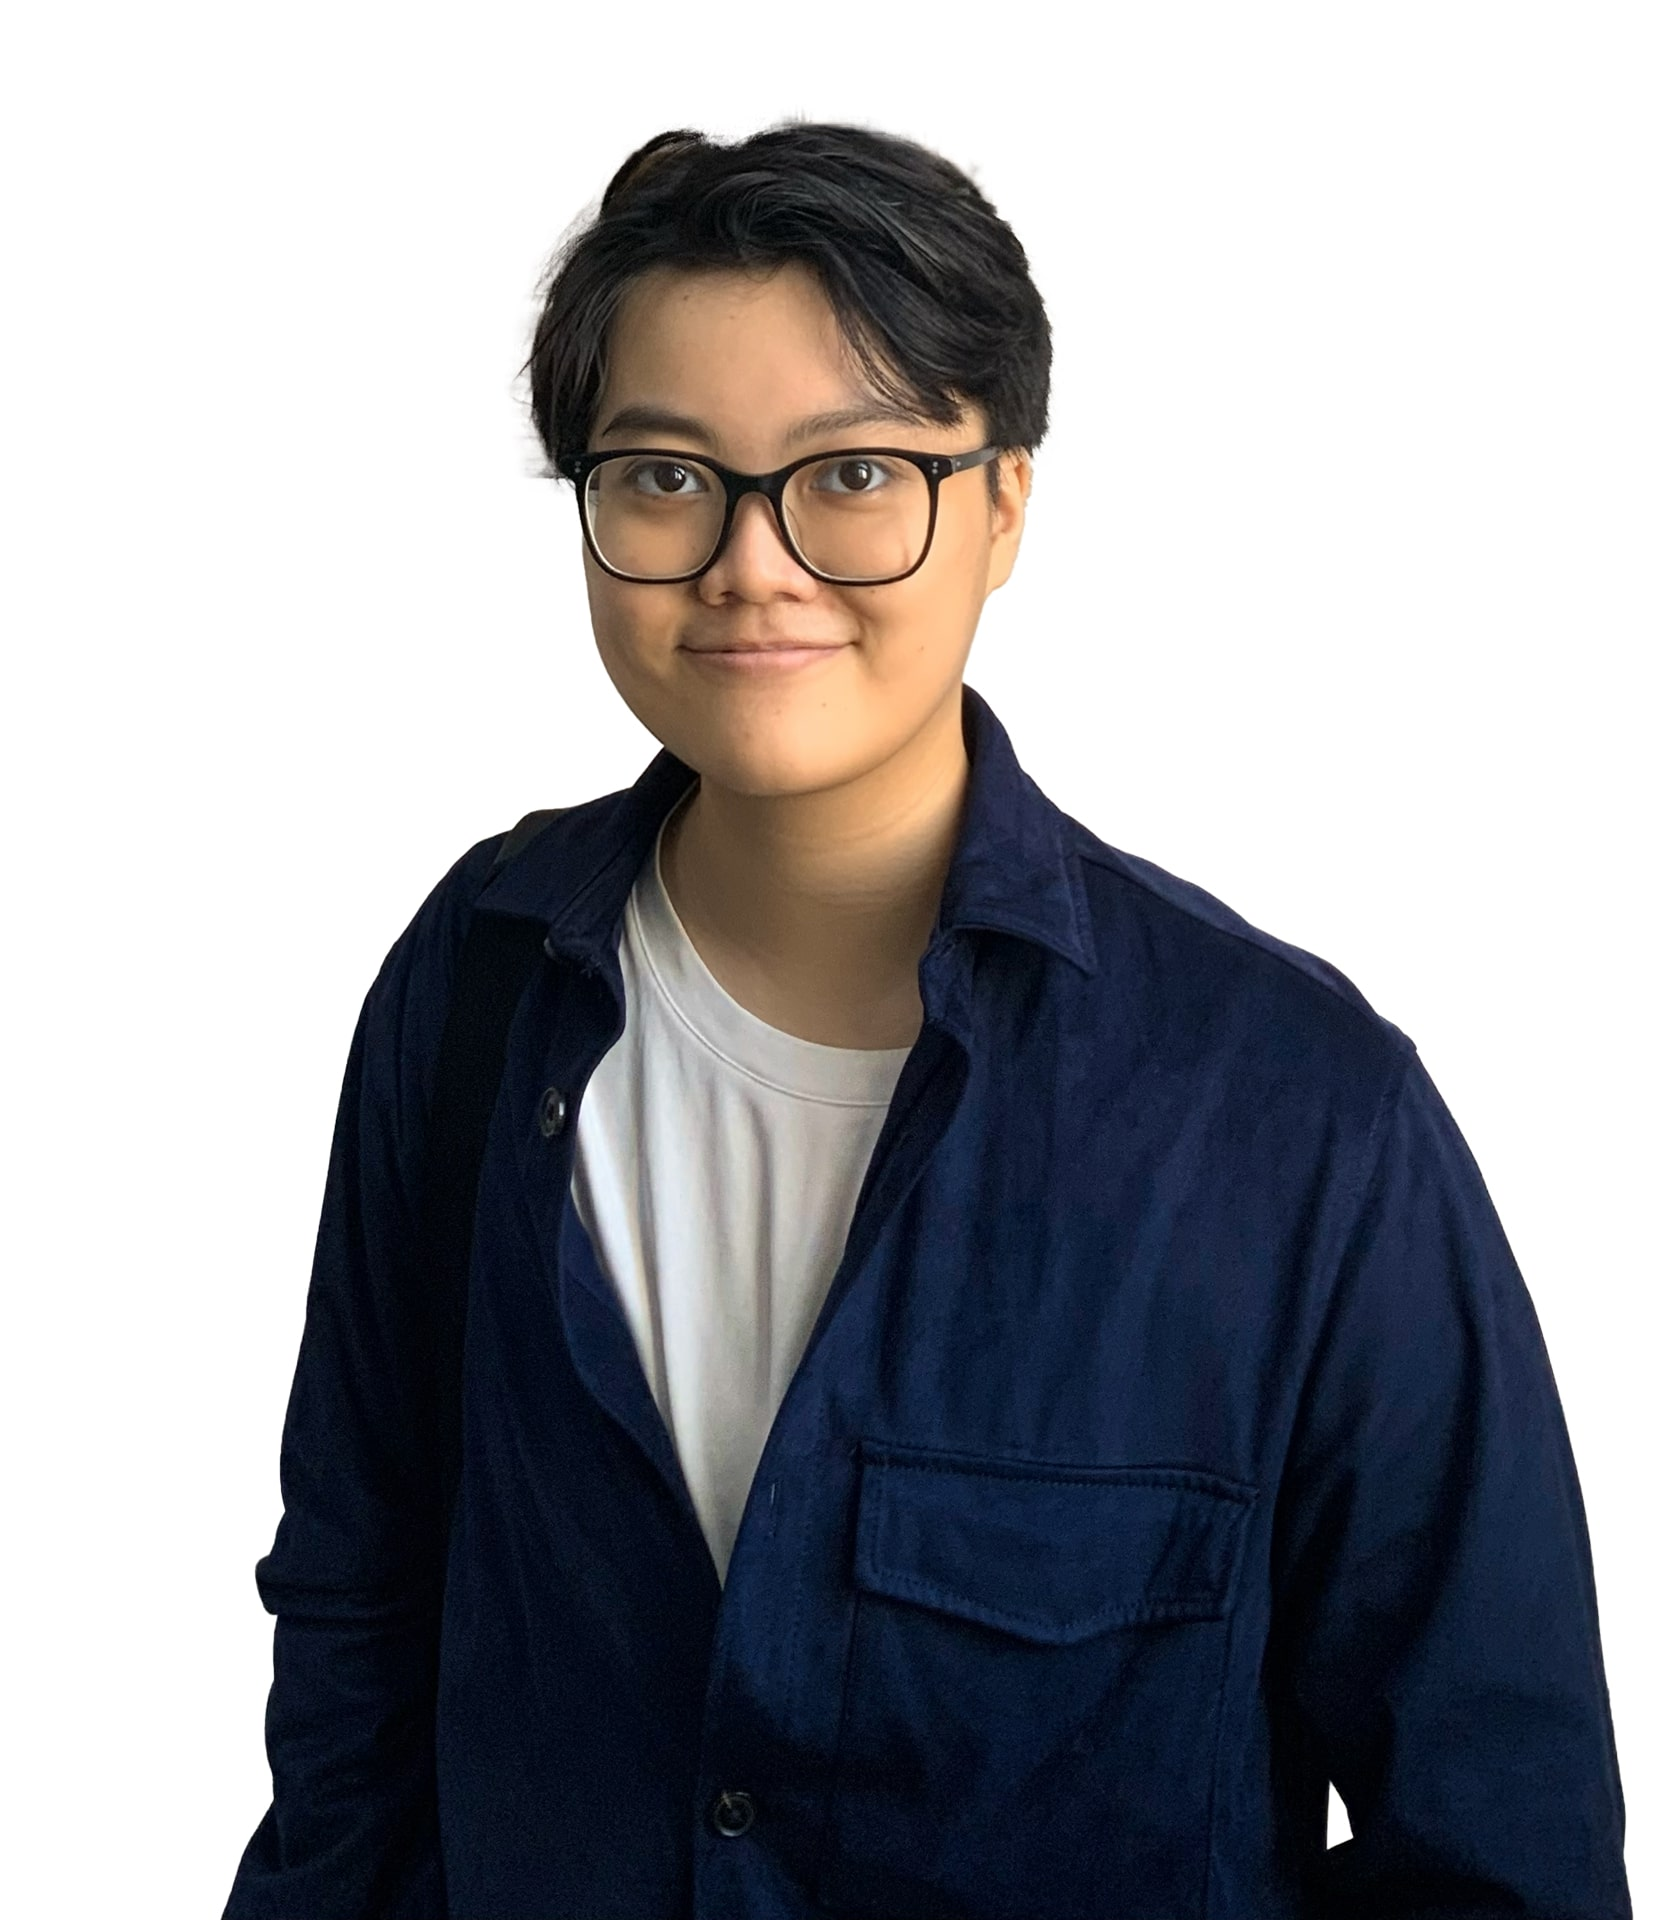
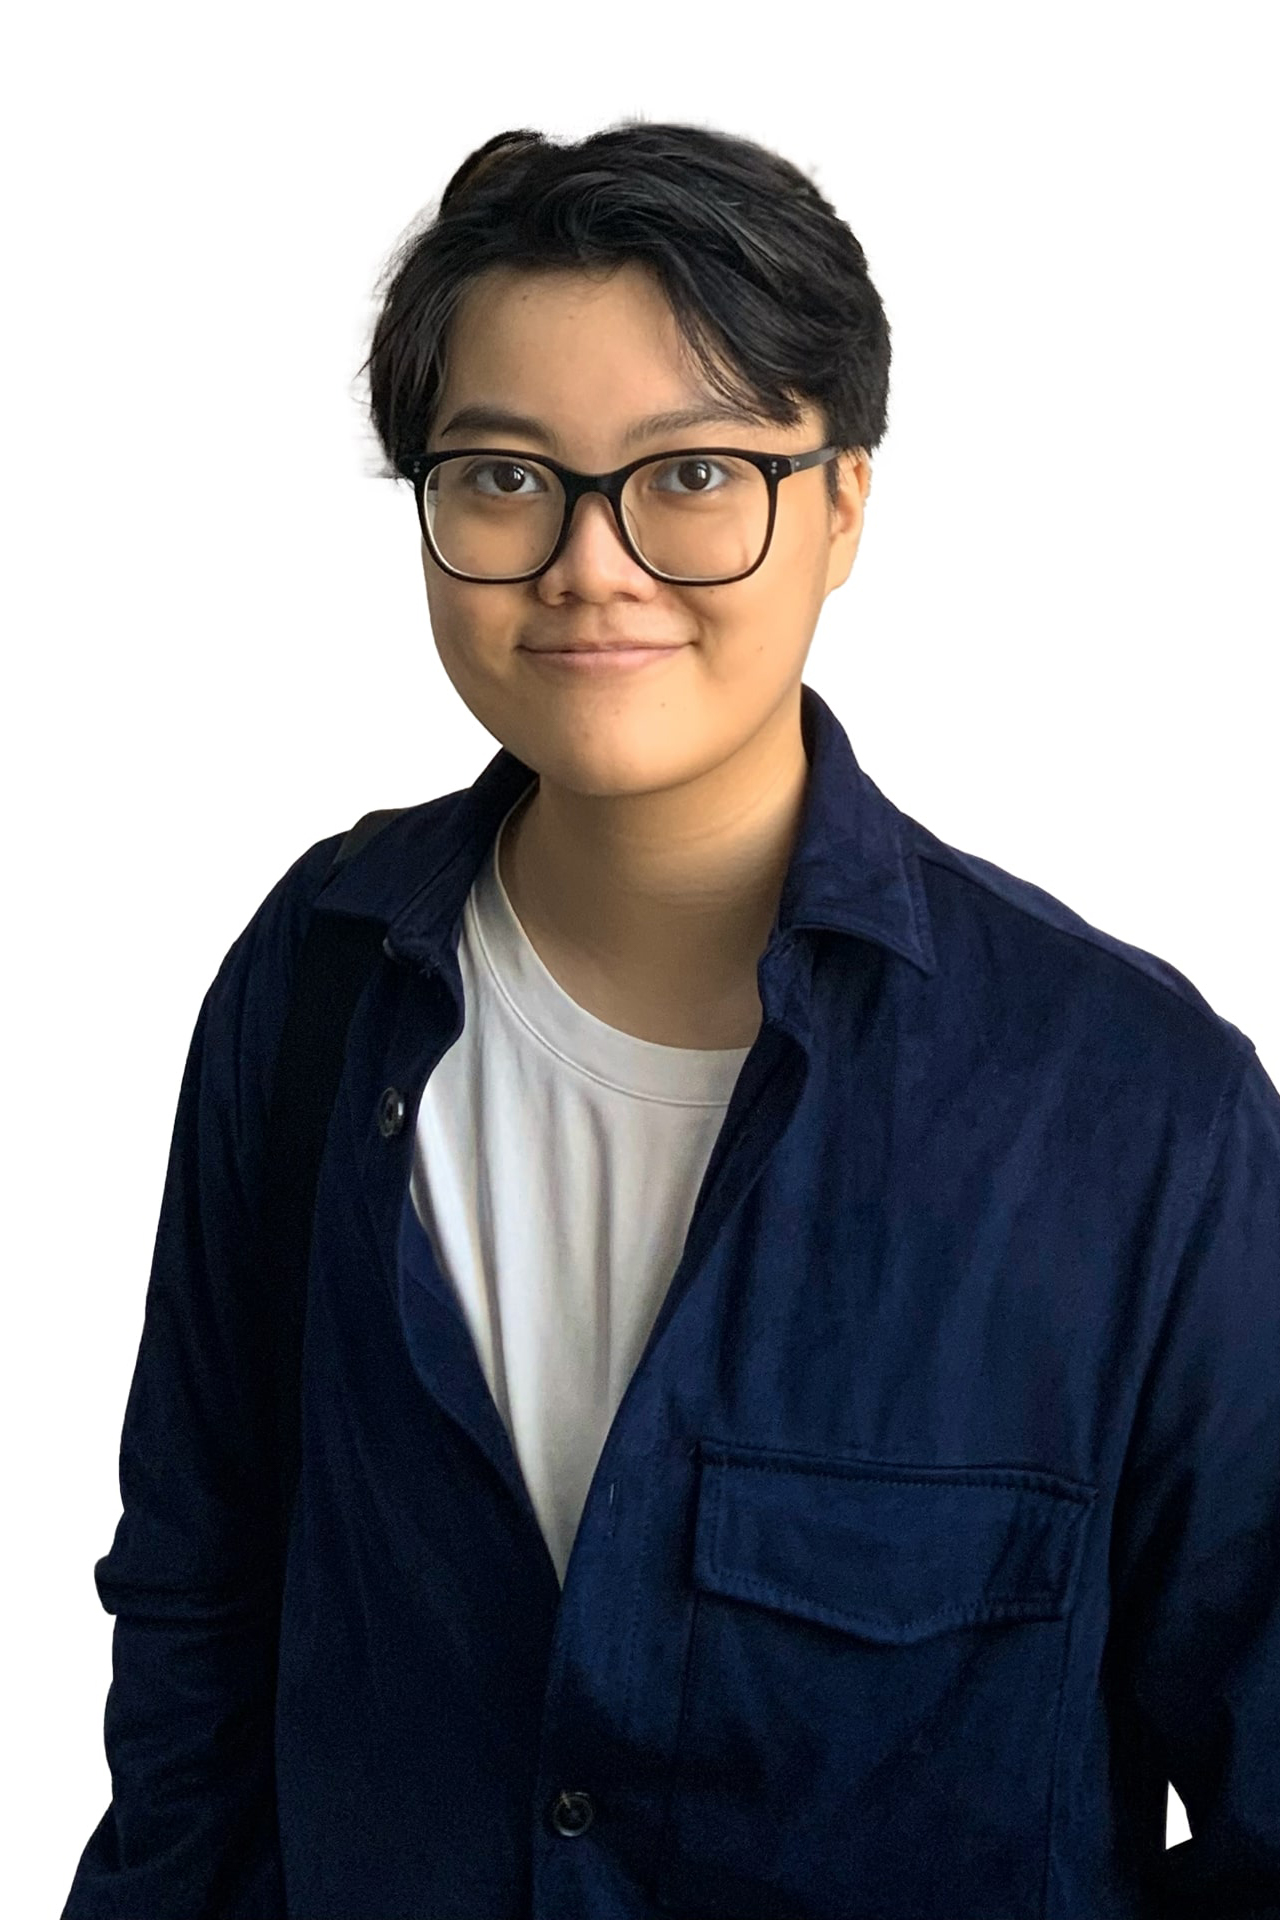
fix instructors images

diff --git a/src/pages/Instructors/Instructors.jsx b/src/pages/Instructors/Instructors.jsx
@@ -221,7 +221,7 @@ export default function Instructors() {
       role: "teacher",
       name: "RYAN",
       image:
-        "assets/humans-images/Ryan.png",
+        "assets/humans-images/Ryan.jpg",
       intro: "",
       achivements: [
         "- Tốt nghiệp cử nhân sư phạm trung học cơ sở, chuyên ngành giảng dạy tiếng Anh",
@@ -262,7 +262,7 @@ export default function Instructors() {
       role: "teacher",
       name: "THANH NHÀN",
       image:
-        "https://encrypted-tbn0.gstatic.com/images?q=tbn:ANd9GcTFkYHn6tWG4KYBXLMANz77kX_LcwojTEXJjA&s",
+        "assets/humans-images/Thanh_Nhan.jpg",
       intro: "",
       achivements: [
         "- Đạt học bổng thạc sĩ TESOL tại đại học Northampton, Vương quốc Anh & Học bổng thạc sĩ Education tại đại học Huddersfield và đại học Leeds Beckett, Vương quốc Anh",
@@ -278,7 +278,7 @@ export default function Instructors() {
       role: "teacher",
       name: "BẢO HÀ",
       image:
-        "https://encrypted-tbn0.gstatic.com/images?q=tbn:ANd9GcTFkYHn6tWG4KYBXLMANz77kX_LcwojTEXJjA&s",
+        "assets/humans-images/Bao_Ha.jpg",
       intro: "",
       achivements: [
         "- Tốt nghiệp loại xuất sắc chuyên ngành sư phạm Anh, trường Đại học Ngoại ngữ Huế.",

diff --git a/src/pages/Instructors/Instructors.css b/src/pages/Instructors/Instructors.css
@@ -113,4 +113,48 @@
     color: var(--secondary-golden);
 }
 
+@media (max-width: 1536px) {
+
+    .details-container {
+        display: flex;
+        justify-content: space-between;
+        align-items: center;
+        background-color: var(--text-background);
+        width: 45vw;
+        border-radius: 5%;
+        padding: 1rem;
+        margin-bottom: 10rem;
+        margin-top: 10rem;
+    }
+    .instructor-image img {
+        width: auto;
+        height: 30rem;
+        border-radius: 10px;
+    }
+    
+    .instructor-active-image.active {
+        display: block;
+    
+    }
+    
+    .instructor-info {
+        color: var(--primary-green);
+    
+        width: 600px;
+        font-size: 1.3rem;
+        text-align: start;
+        text-shadow: rgba(193, 249, 63, 0.409) 2px 2px 2px;
+    }
+    
+    .instructor-name {
+        font-weight: 600;
+        font-size: 1.8rem;
+    }
+    
+    .instructor-intro {
+        font-weight: 500;
+        font-size: 1.6rem;
+        color: var(--secondary-golden);
+    }
+}
 
